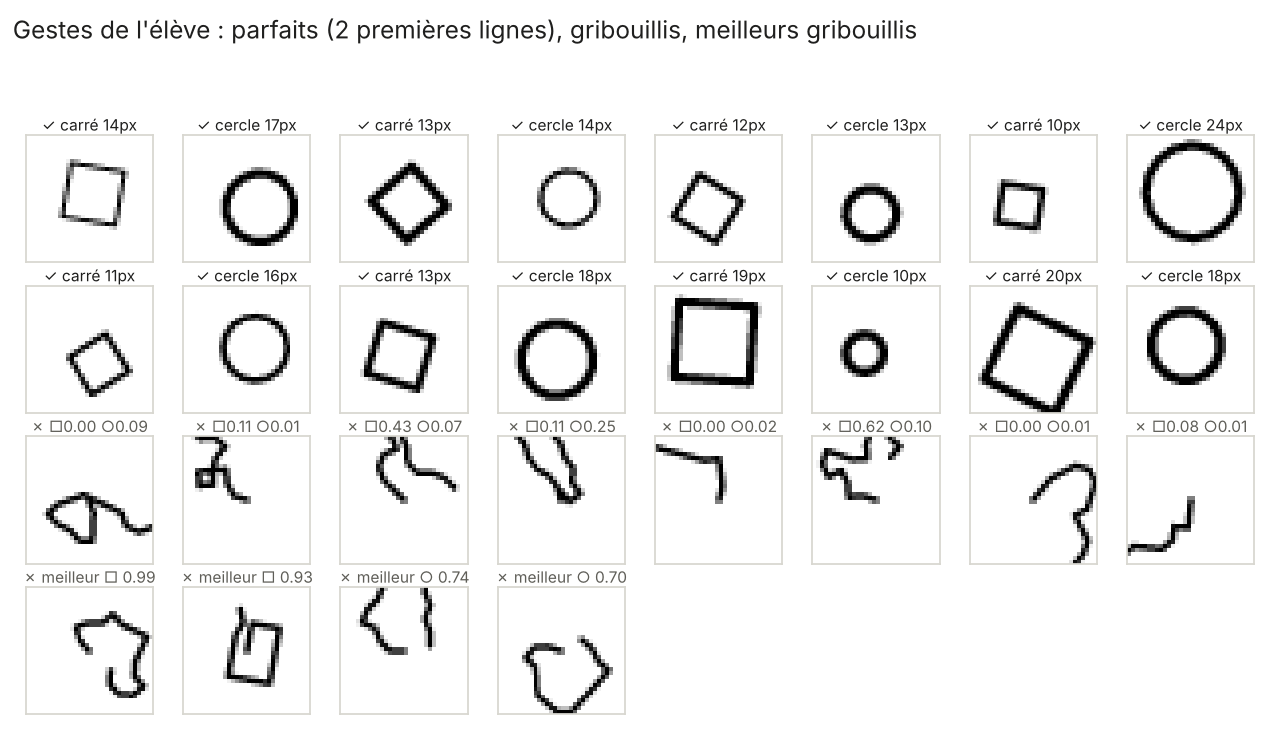
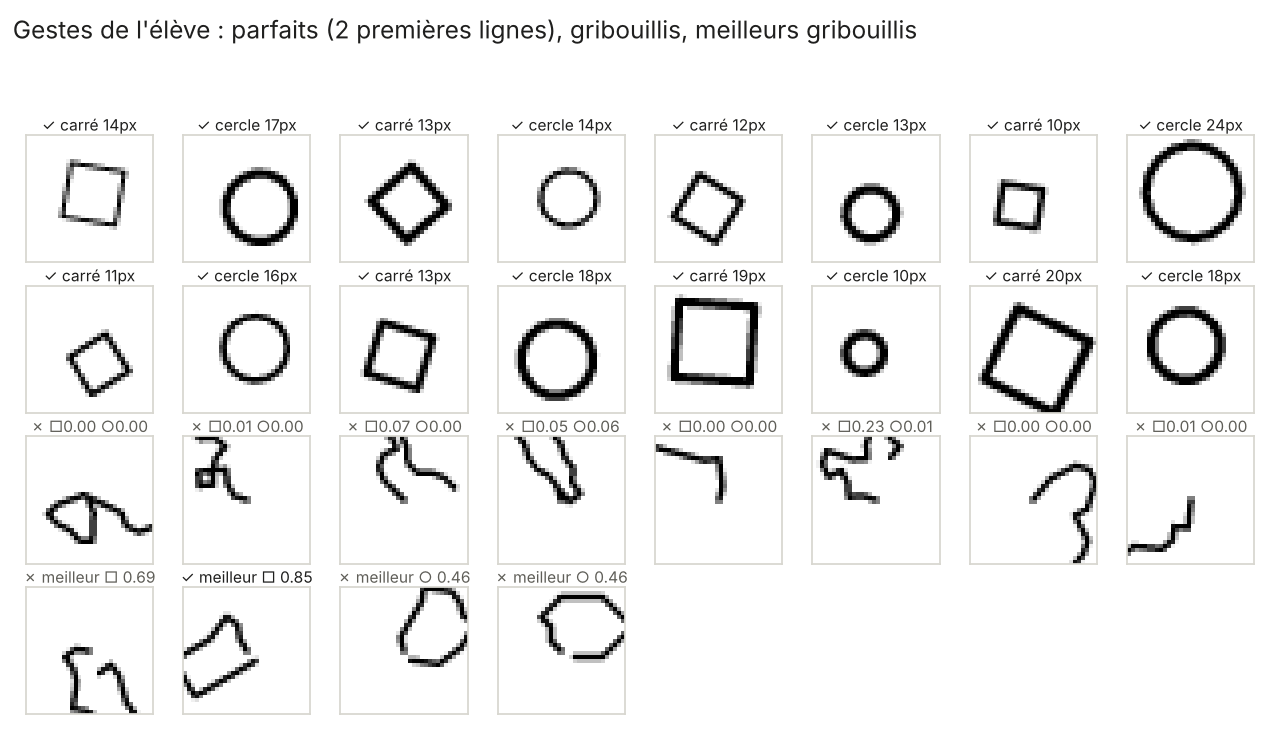
CR-06 : étape 2 validée (monde, maître, sondes, élèves aléatoires)
Claude-Session: https://claude.ai/code/session_01EFvPKnkWQx69NQog7exsYY

diff --git a/docs/comptes-rendus/CR-06_etape2_le_monde.md b/docs/comptes-rendus/CR-06_etape2_le_monde.md
@@ -1,0 +1,71 @@
+# CR-06 — Étape 2 : le monde de l'élève est prêt — 2026-11-23
+
+> Lecture en 2 minutes : sections 1 à 3. Figures dans `docs/figures/step2_*.png`.
+
+## 1. En une phrase
+Le monde fonctionne : le maître montre des formes sans raccourci exploitable (à partir du niveau L2),
+reconnaît sans erreur les carrés et cercles bien faits, et **un élève qui gribouille au hasard
+n'obtient presque jamais de pouce levé** — 1 carré sur 60 000 essais, aucun cercle. Sans
+encouragement, l'élève ne pourrait pas apprendre : votre intuition « c'est presque ça » devient
+une nécessité, pas un confort.
+
+## 2. Ce qui a changé
+- Code : générateur de formes, moteur de rendu partagé, niveaux, encodeurs, stylo, maître
+  catégoriel et copiste, sondes anti-raccourcis (`src/sll/`).
+- 34 tests, tous verts. Expérience reproductible : `experiments/step2_world.py` (graine 0, ~70 s).
+- Figures : galerie des niveaux, galerie des gestes, sondes, notes du hasard.
+
+## 3. Questions pour votre intuition
+1. **Regardez le « meilleur carré » trouvé par hasard (figure des gestes, dernière ligne, coché ✓).**
+   Le maître l'accepte. Vous, l'accepteriez-vous comme un carré « avec des défauts acceptables » ?
+   *Pourquoi : c'est la frontière de tolérance du maître ; votre réponse la règle.*
+2. **Le hasard s'approche bien plus souvent d'un carré que d'un cercle.** Pour un enfant, qu'est-ce
+   qui est plus facile à dessiner : un carré ou un rond ? Et pourquoi, selon vous ?
+   *Pourquoi : j'avais parié l'inverse (P11) ; votre expérience m'aide à comprendre lequel de nous deux se trompe.*
+
+## 4. Faits, interprétations, suppositions
+| Type | Énoncé | Source | Confiance |
+|------|--------|--------|-----------|
+| Fait | Le maître accepte 100 % des carrés/cercles du générateur en L0–L2 et hors distribution, 0 % de la mauvaise classe | 300 formes/classe/niveau | — |
+| Fait | En L3–L4, 2 à 7 % des cercles déformés sont refusés (trop ovales) ; aucun carré refusé | idem | — |
+| Fait | Gestes « parfaits » de toutes tailles (7–24 px) et rotations : 100 % acceptés | 200 + 200 | — |
+| Fait | Stylo et générateur : images identiques pour le même carré (IoU = 1,00) → aucun biais de style | 50 carrés | — |
+| Fait | Gribouillis aléatoires : 1 carré accepté / 60 000, 0 cercle / 60 000 (IC 95 % < 0,03 %) | 3 × 20 000 | — |
+| Fait | « Presque ça » : 0,25 % des gribouillis dépassent 0,5 pour le carré, 0 % pour le cercle | idem | — |
+| Fait | Aucune fuite train/test : 0 quasi-doublon ; distance médiane au plus proche exemple d'apprentissage > distance typique entre images de test | 3 niveaux | — |
+| Fait | Niveaux L2–L4 : encre, position, épaisseur ne révèlent pas la forme (49–53 %) | 3 000 images/niveau | — |
+| Fait | Niveau L1 : la **texture du trait** révèle la forme (80 %) | idem | — |
+| Interprétation | En L1, un carré non tourné a des traits alignés sur la grille de pixels : nets, sans dégradé, alors que le cercle est toujours anti-crénelé. C'est un indice réel mais trivial. | analyse | forte |
+| Interprétation | Le cercle est plus dur à trouver par hasard que le carré : il exige 16 virages identiques d'affilée, alors qu'un quadrilatère approximatif tolère des irrégularités | analyse des gestes | moyenne |
+| Supposition | Un apprentissage guidé par « presque ça » pourra remonter la pente de 0,4 à 1 | à tester étape 3 | faible |
+
+## 5. Surprises et corrections
+1. **Raccourci de position détecté et corrigé.** Les carrés droits étant plus petits que les cercles
+   de même périmètre, ils pouvaient s'approcher plus des bords : la position trahissait la forme (57 %).
+   Corrigé : la zone de placement ne dépend plus de la classe (sonde revenue à 48–50 %).
+2. **Le maître était trop généreux.** Ma première échelle donnait 0,99 sur 1 à un gribouillis
+   informe. Corrigé : la note décroît dès qu'on s'éloigne du parfait, même à l'intérieur de la
+   tolérance. Le meilleur gribouillis plafonne désormais à 0,69 (carré) et 0,46 (cercle).
+3. **Le cercle est plus difficile que le carré pour un élève qui explore** — contraire à mon pari P11.
+
+## 6. Prédictions vs réalité
+| ID | Prédiction | Ce qu'on voit déjà | Statut |
+|----|-----------|--------------------|--------|
+| P07 | Sans note graduée, presque jamais de récompense au début | 1 / 60 000 | **confirmée** (pour l'exploration aveugle) |
+| P11 | Le cercle sera appris avant le carré | le cercle est bien plus rare par hasard | **indice contraire** (à confirmer en apprentissage) |
+
+## 7. Décisions
+D29 (L2 = niveau de référence ; L1 garde un indice de texture documenté), D30 (échelle de note
+révisée), D31 (le maître juge le tracé, pas les pixels). Voir le journal.
+
+## 8. Limites
+- Le maître juge un tracé (suite de points). C'est un juge géométrique fiable, mais plus précis
+  qu'un œil humain sur une image floue.
+- Les gribouillis aléatoires partent du centre avec un pas fixe ; un élève réel choisira aussi
+  position et taille.
+- Les tolérances (« carré acceptable ») sont mes choix ; elles attendent votre regard (question 1).
+
+## 9. Prochaine étape
+Étape 3 : le réseau commun et les premiers élèves — références de classification (M0–M2) et premiers
+élèves dessinateurs (G0–G2) : behavior cloning, REINFORCE, traces d'éligibilité. Premier vrai test :
+un élève sans Shadow parvient-il à remonter la pente de « presque ça » ?

diff --git a/docs/PREDICTIONS.md b/docs/PREDICTIONS.md
@@ -13,11 +13,11 @@ et rendre visibles les surprises — qui sont les résultats les plus informatif
 | P04 | 2026-11-23 | IA | Avec feedback retardé indexé (D ≥ 4), M4/M5 dépassent M2 nettement ; l'écart disparaît largement sans indexation | 65 | delayed_reward | — | — |
 | P05 | 2026-11-23 | IA | M5 ne bat pas un replay classique à nombre de mises à jour égal | 70 | delayed_reward | — | — |
 | P06 | 2026-11-23 | Humain | <à compléter> | | | | |
-| P07 | 2026-11-23 | IA | Sans récompense graduée ni signal interne, G1–G3 n'obtiennent presque jamais de récompense au début (exploration) et apprennent très lentement | 75 | imitation | — | — |
+| P07 | 2026-11-23 | IA | Sans récompense graduée ni signal interne, G1–G3 n'obtiennent presque jamais de récompense au début (exploration) et apprennent très lentement | 75 | imitation | Gribouillis aléatoires : 1 carré accepté / 60 000, 0 cercle (CR-06) | Partiellement confirmée (exploration) |
 | P08 | 2026-11-23 | IA | G5 (gabarit interne + maître) apprend plus vite que G3 (maître seul), en nombre d'essais | 60 | imitation | — | — |
 | P09 | 2026-11-23 | IA | G5′ (gabarit seul, sans maître) progresse mais plafonne sous G5 | 55 | imitation | — | — |
 | P10 | 2026-11-23 | IA | Le contrôle « gabarit brouillé » annule l'avantage de G5 | 70 | imitation | — | — |
-| P11 | 2026-11-23 | IA | Le cercle sera appris avant le carré (virage constant plus facile que l'alternance droit/virage) | 60 | imitation | — | — |
+| P11 | 2026-11-23 | IA | Le cercle sera appris avant le carré (virage constant plus facile que l'alternance droit/virage) | 60 | imitation | Indice contraire : le hasard approche le carré bien plus que le cercle (CR-06) | En cours |
 | P12 | 2026-11-23 | IA | H7 : « remontrer en insistant » est le facteur au plus gros effet de toute l'étude | 70 | imitation | — | — |
 | P13 | 2026-11-23 | IA | H8 : l'encouragement gradué rend l'apprentissage possible là où le pouce binaire échoue (début) | 75 | imitation | — | — |
 | P14 | 2026-11-23 | IA | H9 : le rappel reconstructif généralise mieux que le replay fidèle hors distribution | 50 | imitation | — | — |

diff --git a/docs/JOURNAL_DECISIONS.md b/docs/JOURNAL_DECISIONS.md
@@ -33,3 +33,7 @@ Une décision n'est jamais modifiée en place : on ajoute une nouvelle entrée q
 | D26 | 2026-11-23 | Concept intérieur = assemblée de sous-concepts entremêlés, émergeant de sensations primitives visuelles et motrices (aucun détecteur de forme programmé) | Prototype d'image ; détecteurs codés à la main | Intuition « concept sans détails, angles, coins, côtés égaux qui s'entremêlent » | Humain → IA | Adoptée |
 | D27 | 2026-11-23 | Indice de clarté du concept (abstraction, netteté, stabilité), mesuré avant/après sommeil | — | Intuition « plus clair après une nuit » | Humain → IA | Adoptée |
 | D28 | 2026-11-23 | Critère principal = « test de l'élève qui sait » : carrés de toutes tailles, sans modèle, acceptés, divers, défauts acceptables | Précision de classification | Définition humaine de « savoir ce qu'est un carré » | Humain | Adoptée |
+| D29 | 2026-11-23 | Niveau de référence des expériences = L2 ; L1 conservé mais son indice de texture (traits alignés sur la grille) est documenté | Supprimer L1 | Les sondes montrent L2–L4 sans raccourci, L1 avec un indice trivial | IA | Adoptée, réversible |
+| D30 | 2026-11-23 | Note graduée : exp(−½(écart/tolérance)²) par critère, moyenne géométrique ; 0,61 à la limite de tolérance | Note = 1 dans toute la tolérance | L'ancienne échelle donnait 0,99 à un gribouillis | IA | Adoptée |
+| D31 | 2026-11-23 | Le maître juge le tracé (points), pas l'image | Juger les pixels | Juge fiable et identique pour formes du générateur et gestes de l'élève | IA | Adoptée, réversible |
+| D32 | 2026-11-23 | Zone de placement des formes indépendante de la classe | Zone selon l'étendue de la forme | Fuite de position détectée par la sonde (57 %) | IA | Adoptée |

diff --git a/README.md b/README.md
@@ -1,0 +1,36 @@
+# Shadow Learning Lab
+
+Laboratoire expérimental : un élève artificiel peut-il apprendre le concept de carré et de cercle
+avec très peu de démonstrations, grâce à une mémoire temporaire de ses états (Shadow Memory),
+une récompense globale du maître et une plasticité locale ?
+
+- Conception : `docs/CONCEPTION.md`, `docs/PARADIGME_IMITATION.md`
+- Comptes rendus : `docs/comptes-rendus/` (dernier en date en premier à lire)
+- Décisions : `docs/JOURNAL_DECISIONS.md` — Paris : `docs/PREDICTIONS.md`
+
+## Utilisation
+
+```bash
+pip install -e ".[dev]"            # numpy, matplotlib, pyyaml, pytest
+python -m pytest -q                # tests
+PYTHONPATH=src python experiments/step2_world.py   # étape 2 : validation du monde (~1 min)
+```
+
+Résultats : `results/<étape>/summary.json` (avec graine et commit git), figures dans `docs/figures/`.
+
+## Structure
+
+```
+src/sll/
+  core/rng.py               graines indépendantes par rôle (train/test/...)
+  data/render.py            moteur de rendu partagé (maître ET élève)
+  data/levels.py            niveaux de difficulté L0–L4, hors distribution
+  data/shapes_generator.py  cercles et carrés paramétrés
+  data/datasets.py          tirages disjoints, épisodes few-shot, contrôle de fuite
+  data/encoders.py          encodeurs fixes : pixels, aléatoire, orientations
+  world/pen.py              le stylo de l'élève (virages), proprioception
+  world/teacher.py          maître catégoriel (pouce + « presque ça ») et maître copiste
+  analysis/                 sondes anti-raccourcis, statistiques, figures
+experiments/                scripts d'expériences reproductibles
+tests/                      tests
+```
